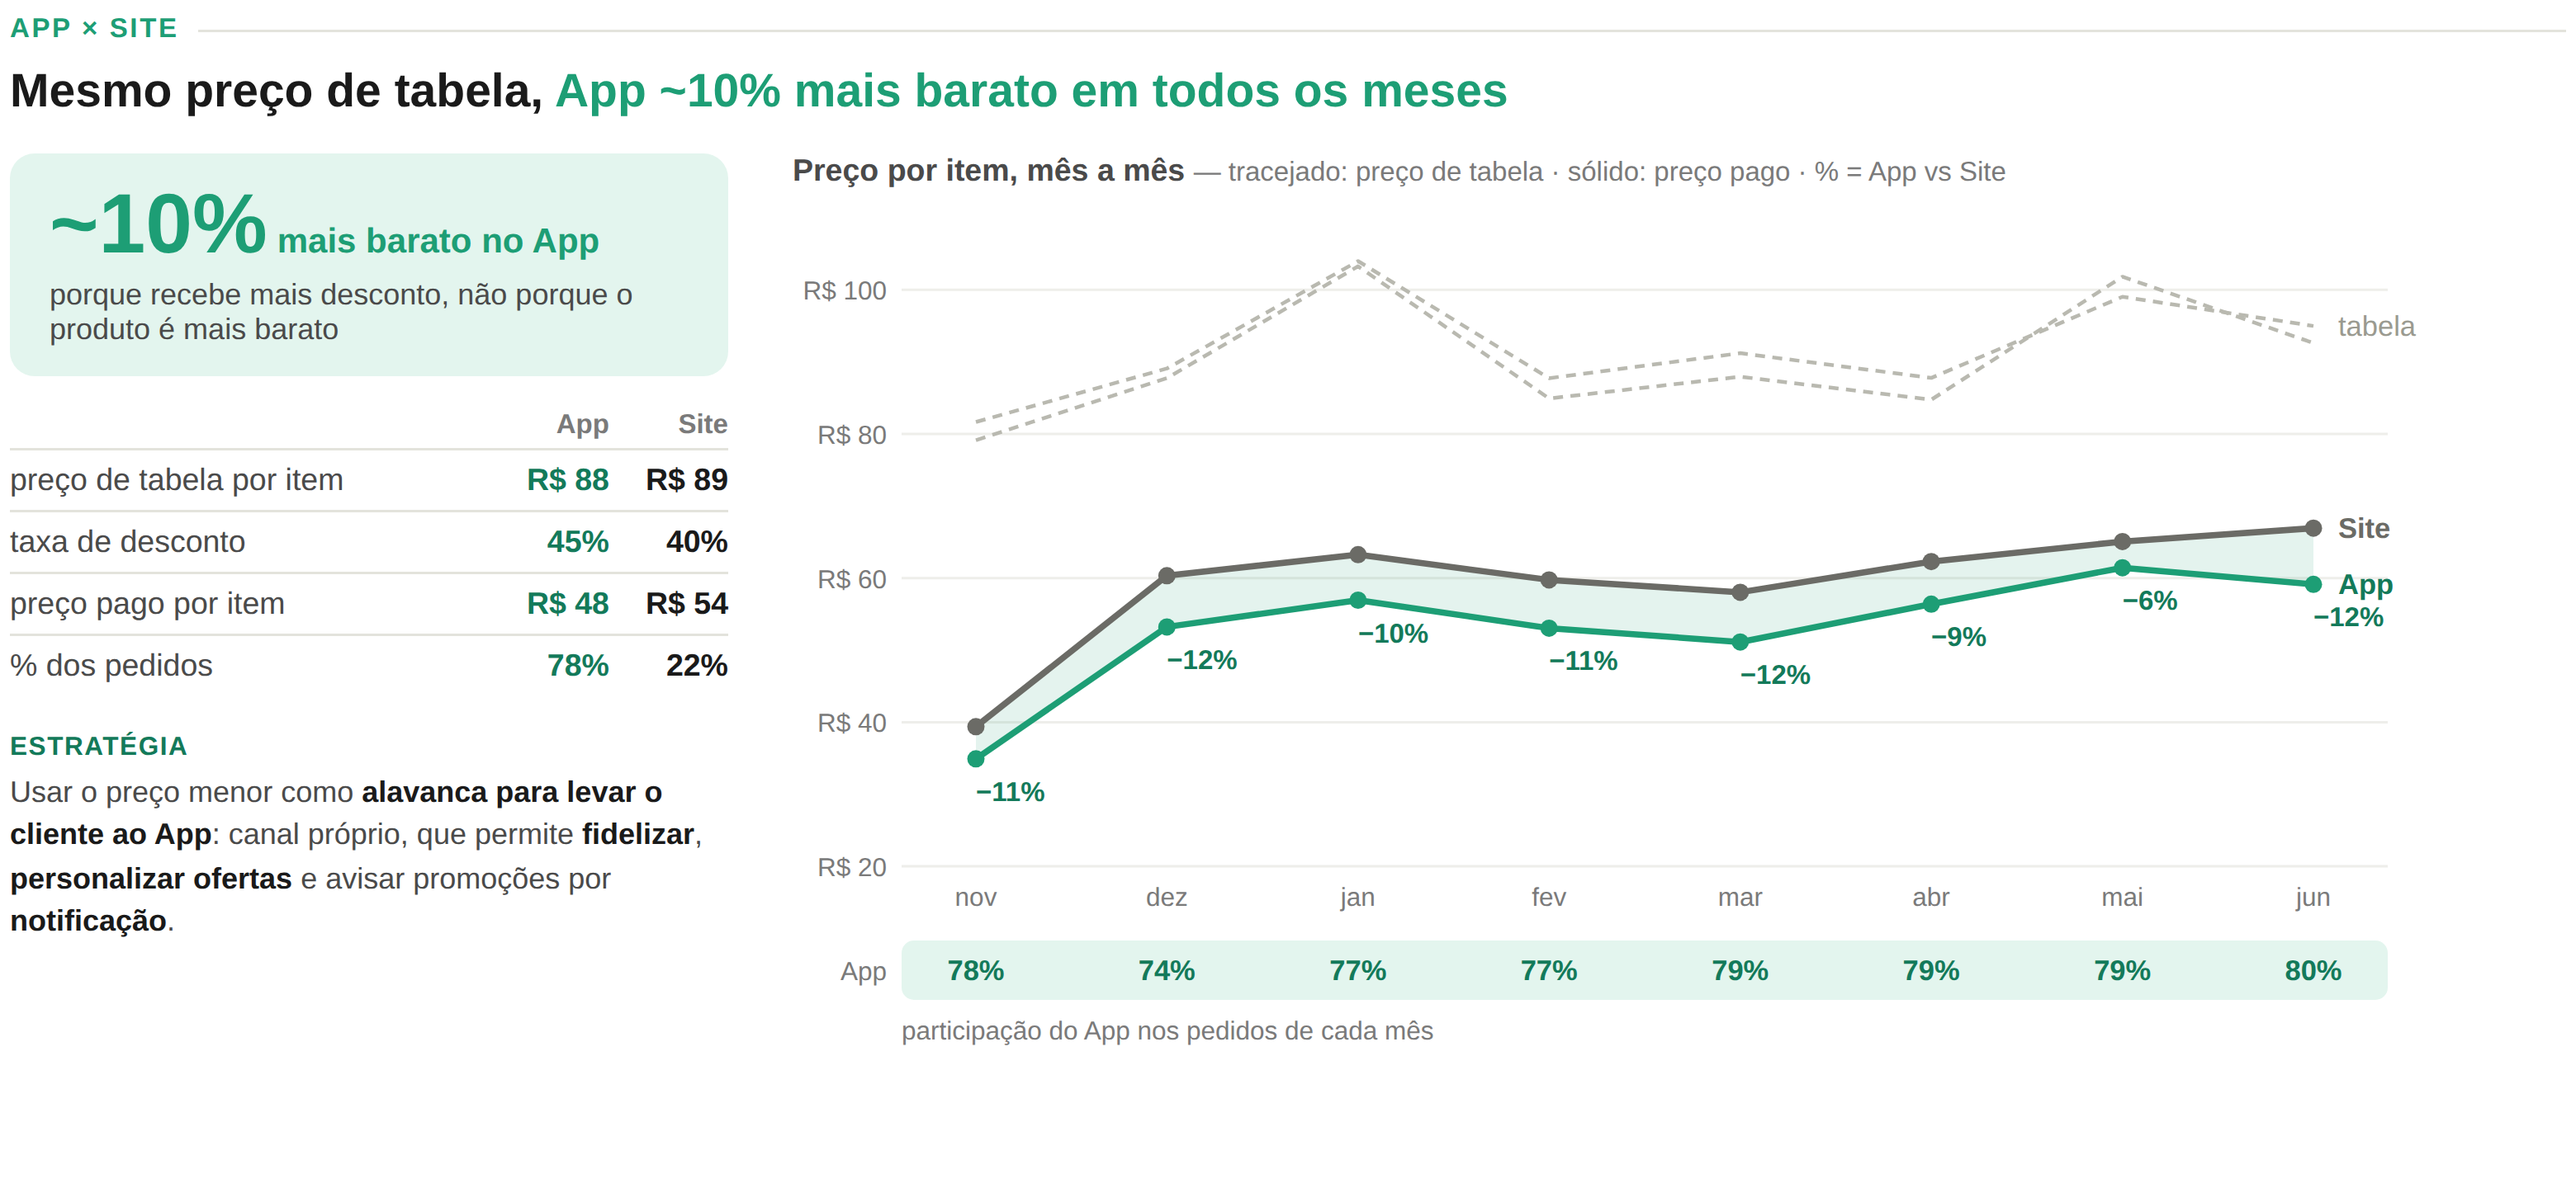
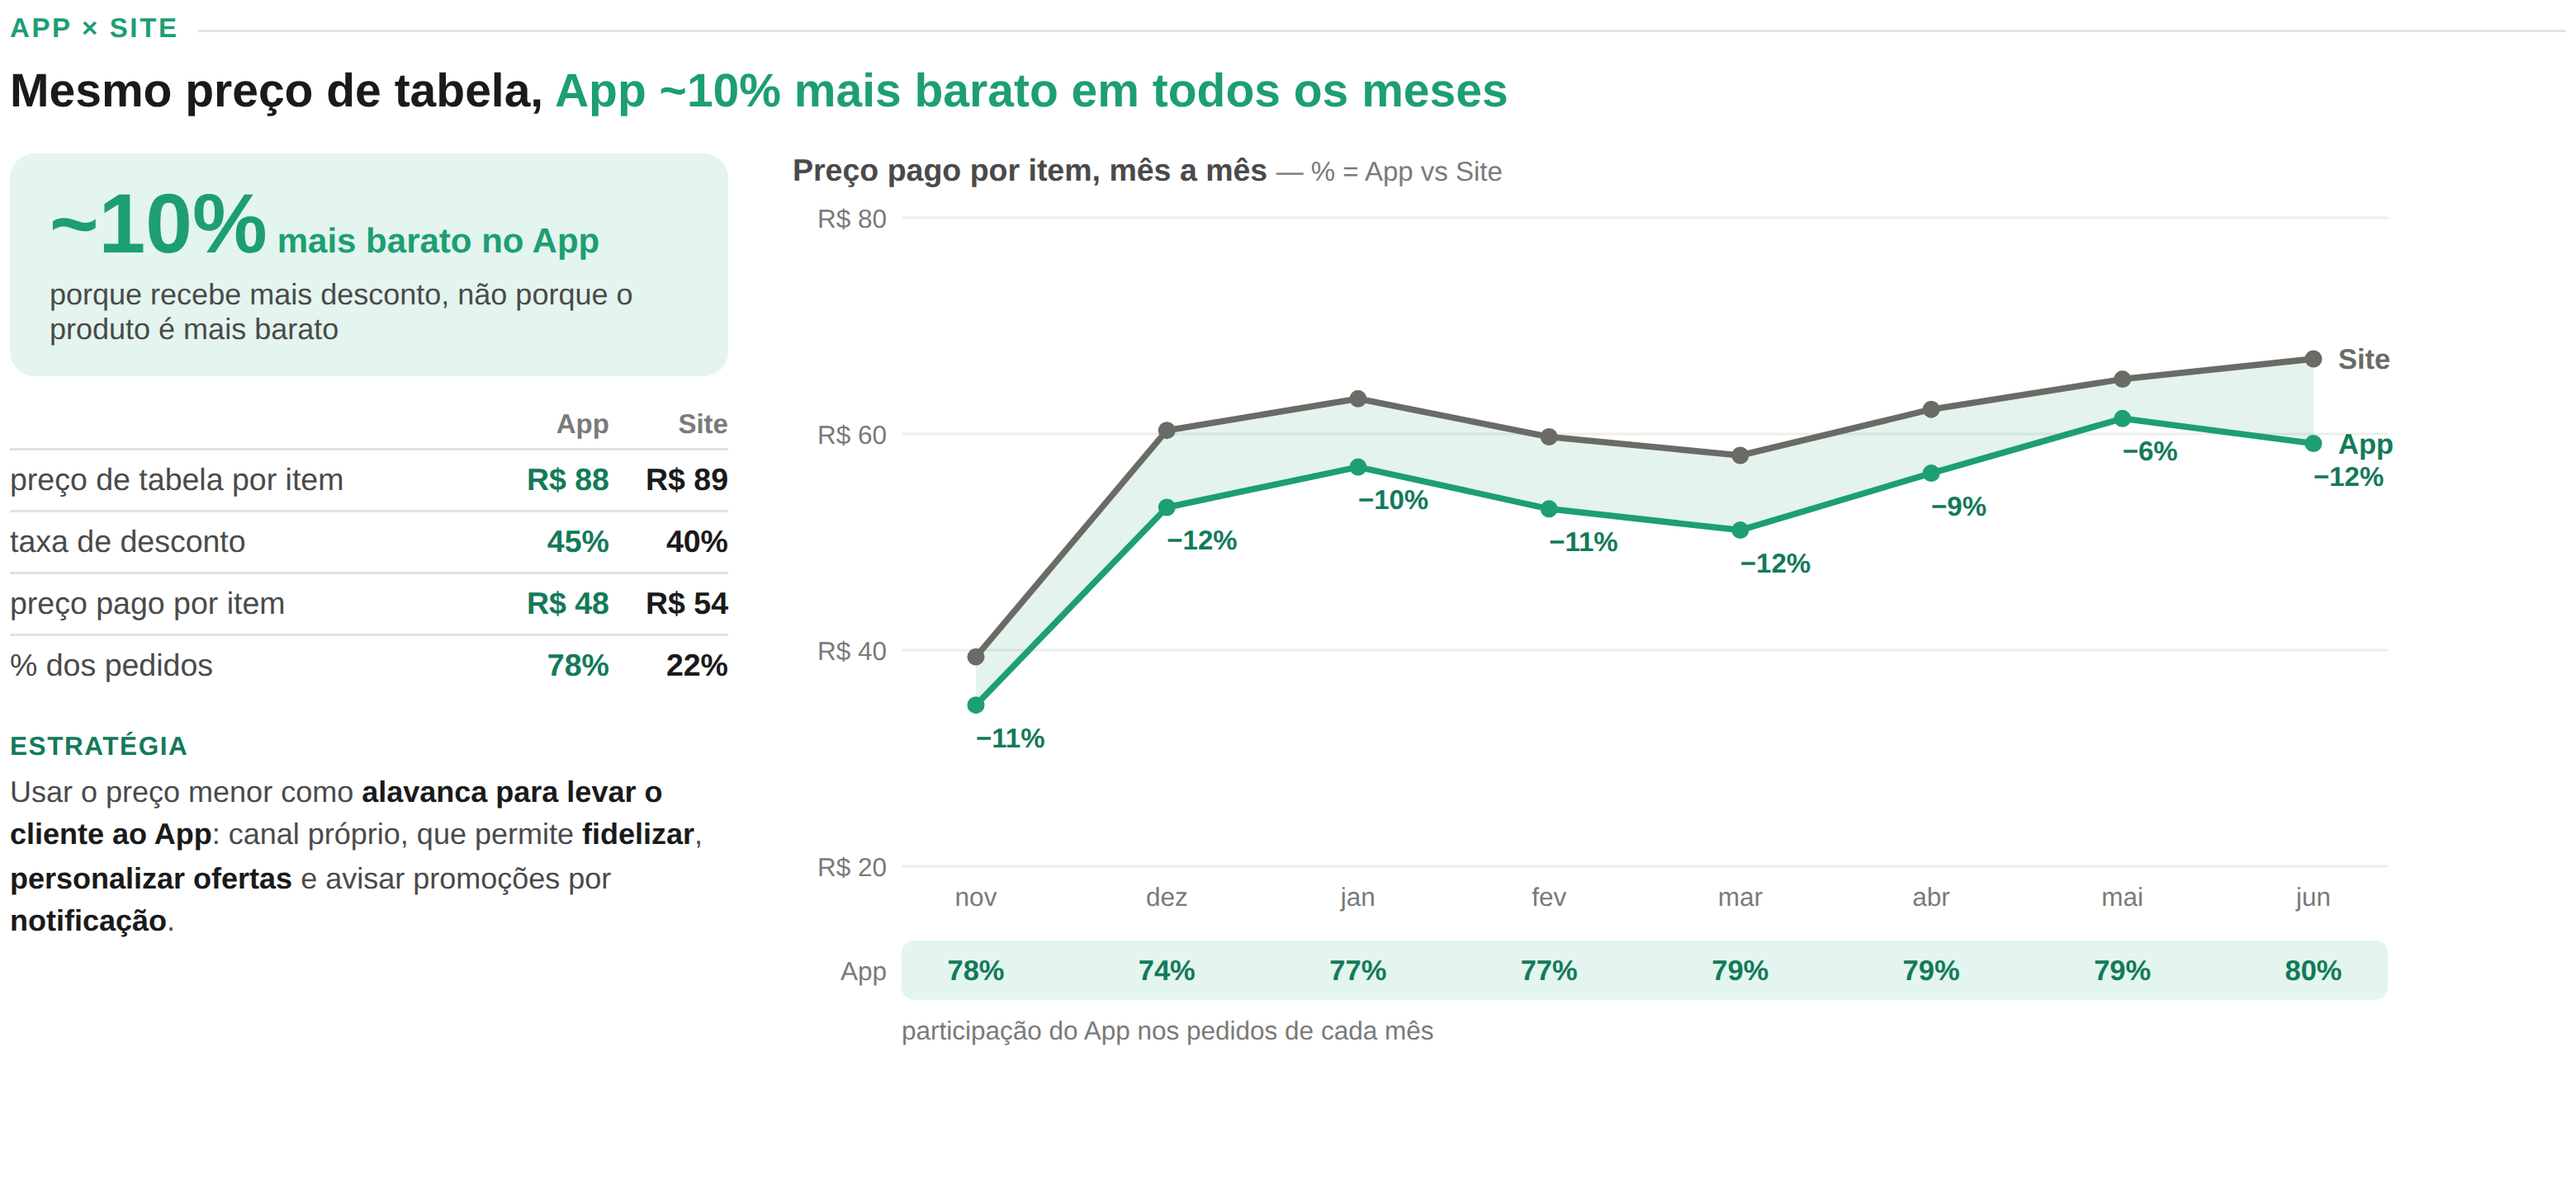
Widget App × Site: remove linhas de preço de tabela do gráfico
Claude-Session: https://claude.ai/code/session_01NUJZKTcM8cs9QBTcUeuacF

diff --git a/apresentacao/widgets/05_app_site.html b/apresentacao/widgets/05_app_site.html
@@ -69,8 +69,8 @@
       <div class="texto"><span class="tit">Estratégia</span>Usar o preço menor como <b>alavanca para levar o cliente ao App</b>: canal próprio, que permite <b>fidelizar</b>, <b>personalizar ofertas</b> e avisar promoções por <b>notificação</b>.</div>
     </div>
     <div>
-      <div class="graf-tit">Preço por item, mês a mês <span>— tracejado: preço de tabela · sólido: preço pago · % = App vs Site</span></div>
-      <svg width="694" height="348" viewBox="0 0 694 348"><line x1="44" x2="644" y1="272.0" y2="272.0" class="grade"/><text x="38" y="276.0" text-anchor="end" class="eixo">R$ 20</text><line x1="44" x2="644" y1="213.8" y2="213.8" class="grade"/><text x="38" y="217.8" text-anchor="end" class="eixo">R$ 40</text><line x1="44" x2="644" y1="155.6" y2="155.6" class="grade"/><text x="38" y="159.6" text-anchor="end" class="eixo">R$ 60</text><line x1="44" x2="644" y1="97.3" y2="97.3" class="grade"/><text x="38" y="101.3" text-anchor="end" class="eixo">R$ 80</text><line x1="44" x2="644" y1="39.1" y2="39.1" class="grade"/><text x="38" y="43.1" text-anchor="end" class="eixo">R$ 100</text><text x="74.0" y="288" text-anchor="middle" class="eixo">nov</text><text x="151.1" y="288" text-anchor="middle" class="eixo">dez</text><text x="228.3" y="288" text-anchor="middle" class="eixo">jan</text><text x="305.4" y="288" text-anchor="middle" class="eixo">fev</text><text x="382.6" y="288" text-anchor="middle" class="eixo">mar</text><text x="459.7" y="288" text-anchor="middle" class="eixo">abr</text><text x="536.9" y="288" text-anchor="middle" class="eixo">mai</text><text x="614.0" y="288" text-anchor="middle" class="eixo">jun</text><polygon points="74.0,215.6 151.1,154.6 228.3,146.1 305.4,156.3 382.6,161.3 459.7,148.9 536.9,140.8 614.0,135.4 614.0,158.1 536.9,151.4 459.7,166.1 382.6,181.4 305.4,175.8 228.3,164.5 151.1,175.3 74.0,228.6" class="gap"/><polyline points="74.0,92.5 151.1,70.9 228.3,27.5 305.4,74.8 382.6,64.7 459.7,74.7 536.9,41.9 614.0,53.7" class="tab site"/><polyline points="74.0,99.9 151.1,74.8 228.3,29.6 305.4,83.0 382.6,74.2 459.7,83.5 536.9,33.8 614.0,60.6" class="tab app"/><polyline points="74.0,215.6 151.1,154.6 228.3,146.1 305.4,156.3 382.6,161.3 459.7,148.9 536.9,140.8 614.0,135.4" class="pago site"/><polyline points="74.0,228.6 151.1,175.3 228.3,164.5 305.4,175.8 382.6,181.4 459.7,166.1 536.9,151.4 614.0,158.1" class="pago app"/><circle cx="74.0" cy="215.6" r="3.5" class="pt site"/><circle cx="74.0" cy="228.6" r="3.5" class="pt app"/><text x="74.0" y="245.6" text−anchor="middle" class="dif">−11%</text><circle cx="151.1" cy="154.6" r="3.5" class="pt site"/><circle cx="151.1" cy="175.3" r="3.5" class="pt app"/><text x="151.1" y="192.3" text−anchor="middle" class="dif">−12%</text><circle cx="228.3" cy="146.1" r="3.5" class="pt site"/><circle cx="228.3" cy="164.5" r="3.5" class="pt app"/><text x="228.3" y="181.5" text−anchor="middle" class="dif">−10%</text><circle cx="305.4" cy="156.3" r="3.5" class="pt site"/><circle cx="305.4" cy="175.8" r="3.5" class="pt app"/><text x="305.4" y="192.8" text−anchor="middle" class="dif">−11%</text><circle cx="382.6" cy="161.3" r="3.5" class="pt site"/><circle cx="382.6" cy="181.4" r="3.5" class="pt app"/><text x="382.6" y="198.4" text−anchor="middle" class="dif">−12%</text><circle cx="459.7" cy="148.9" r="3.5" class="pt site"/><circle cx="459.7" cy="166.1" r="3.5" class="pt app"/><text x="459.7" y="183.1" text−anchor="middle" class="dif">−9%</text><circle cx="536.9" cy="140.8" r="3.5" class="pt site"/><circle cx="536.9" cy="151.4" r="3.5" class="pt app"/><text x="536.9" y="168.4" text−anchor="middle" class="dif">−6%</text><circle cx="614.0" cy="135.4" r="3.5" class="pt site"/><circle cx="614.0" cy="158.1" r="3.5" class="pt app"/><text x="614.0" y="175.1" text−anchor="middle" class="dif">−12%</text><text x="624.0" y="57.7" class="leg tab-l">tabela</text><text x="624.0" y="139.4" class="leg site-l">Site</text><text x="624.0" y="162.1" class="leg app-l">App</text><rect x="44" y="302" width="600" height="24" rx="5" class="faixa"/><text x="38" y="318" text-anchor="end" class="eixo">App</text><text x="74.0" y="318" text-anchor="middle" class="sh">78%</text><text x="151.1" y="318" text-anchor="middle" class="sh">74%</text><text x="228.3" y="318" text-anchor="middle" class="sh">77%</text><text x="305.4" y="318" text-anchor="middle" class="sh">77%</text><text x="382.6" y="318" text-anchor="middle" class="sh">79%</text><text x="459.7" y="318" text-anchor="middle" class="sh">79%</text><text x="536.9" y="318" text-anchor="middle" class="sh">79%</text><text x="614.0" y="318" text-anchor="middle" class="sh">80%</text><text x="44" y="342" class="eixo">participação do App nos pedidos de cada mês</text></svg>
+      <div class="graf-tit">Preço pago por item, mês a mês <span>— % = App vs Site</span></div>
+      <svg width="694" height="348" viewBox="0 0 694 348"><line x1="44" x2="644" y1="272.0" y2="272.0" class="grade"/><text x="38" y="276.0" text-anchor="end" class="eixo">R$ 20</text><line x1="44" x2="644" y1="184.7" y2="184.7" class="grade"/><text x="38" y="188.7" text-anchor="end" class="eixo">R$ 40</text><line x1="44" x2="644" y1="97.3" y2="97.3" class="grade"/><text x="38" y="101.3" text-anchor="end" class="eixo">R$ 60</text><line x1="44" x2="644" y1="10.0" y2="10.0" class="grade"/><text x="38" y="14.0" text-anchor="end" class="eixo">R$ 80</text><text x="74.0" y="288" text-anchor="middle" class="eixo">nov</text><text x="151.1" y="288" text-anchor="middle" class="eixo">dez</text><text x="228.3" y="288" text-anchor="middle" class="eixo">jan</text><text x="305.4" y="288" text-anchor="middle" class="eixo">fev</text><text x="382.6" y="288" text-anchor="middle" class="eixo">mar</text><text x="459.7" y="288" text-anchor="middle" class="eixo">abr</text><text x="536.9" y="288" text-anchor="middle" class="eixo">mai</text><text x="614.0" y="288" text-anchor="middle" class="eixo">jun</text><polygon points="74.0,187.4 151.1,95.9 228.3,83.1 305.4,98.5 382.6,106.0 459.7,87.4 536.9,75.2 614.0,67.0 614.0,101.2 536.9,91.1 459.7,113.2 382.6,136.2 305.4,127.6 228.3,110.7 151.1,127.0 74.0,206.9" class="gap"/><polyline points="74.0,187.4 151.1,95.9 228.3,83.1 305.4,98.5 382.6,106.0 459.7,87.4 536.9,75.2 614.0,67.0" class="pago site"/><polyline points="74.0,206.9 151.1,127.0 228.3,110.7 305.4,127.6 382.6,136.2 459.7,113.2 536.9,91.1 614.0,101.2" class="pago app"/><circle cx="74.0" cy="187.4" r="3.5" class="pt site"/><circle cx="74.0" cy="206.9" r="3.5" class="pt app"/><text x="74.0" y="223.9" text−anchor="middle" class="dif">−11%</text><circle cx="151.1" cy="95.9" r="3.5" class="pt site"/><circle cx="151.1" cy="127.0" r="3.5" class="pt app"/><text x="151.1" y="144.0" text−anchor="middle" class="dif">−12%</text><circle cx="228.3" cy="83.1" r="3.5" class="pt site"/><circle cx="228.3" cy="110.7" r="3.5" class="pt app"/><text x="228.3" y="127.7" text−anchor="middle" class="dif">−10%</text><circle cx="305.4" cy="98.5" r="3.5" class="pt site"/><circle cx="305.4" cy="127.6" r="3.5" class="pt app"/><text x="305.4" y="144.6" text−anchor="middle" class="dif">−11%</text><circle cx="382.6" cy="106.0" r="3.5" class="pt site"/><circle cx="382.6" cy="136.2" r="3.5" class="pt app"/><text x="382.6" y="153.2" text−anchor="middle" class="dif">−12%</text><circle cx="459.7" cy="87.4" r="3.5" class="pt site"/><circle cx="459.7" cy="113.2" r="3.5" class="pt app"/><text x="459.7" y="130.2" text−anchor="middle" class="dif">−9%</text><circle cx="536.9" cy="75.2" r="3.5" class="pt site"/><circle cx="536.9" cy="91.1" r="3.5" class="pt app"/><text x="536.9" y="108.1" text−anchor="middle" class="dif">−6%</text><circle cx="614.0" cy="67.0" r="3.5" class="pt site"/><circle cx="614.0" cy="101.2" r="3.5" class="pt app"/><text x="614.0" y="118.2" text−anchor="middle" class="dif">−12%</text><text x="624.0" y="71.0" class="leg site-l">Site</text><text x="624.0" y="105.2" class="leg app-l">App</text><rect x="44" y="302" width="600" height="24" rx="5" class="faixa"/><text x="38" y="318" text-anchor="end" class="eixo">App</text><text x="74.0" y="318" text-anchor="middle" class="sh">78%</text><text x="151.1" y="318" text-anchor="middle" class="sh">74%</text><text x="228.3" y="318" text-anchor="middle" class="sh">77%</text><text x="305.4" y="318" text-anchor="middle" class="sh">77%</text><text x="382.6" y="318" text-anchor="middle" class="sh">79%</text><text x="459.7" y="318" text-anchor="middle" class="sh">79%</text><text x="536.9" y="318" text-anchor="middle" class="sh">79%</text><text x="614.0" y="318" text-anchor="middle" class="sh">80%</text><text x="44" y="342" class="eixo">participação do App nos pedidos de cada mês</text></svg>
     </div>
   </div>
 </div>

diff --git a/apresentacao/geradores/05_app_site_modelo.html b/apresentacao/geradores/05_app_site_modelo.html
@@ -69,7 +69,7 @@
       <div class="texto"><span class="tit">Estratégia</span>Usar o preço menor como <b>alavanca para levar o cliente ao App</b>: canal próprio, que permite <b>fidelizar</b>, <b>personalizar ofertas</b> e avisar promoções por <b>notificação</b>.</div>
     </div>
     <div>
-      <div class="graf-tit">Preço por item, mês a mês <span>— tracejado: preço de tabela · sólido: preço pago · % = App vs Site</span></div>
+      <div class="graf-tit">Preço pago por item, mês a mês <span>— % = App vs Site</span></div>
       {{GRAFICO}}
     </div>
   </div>

diff --git a/apresentacao/geradores/05_app_site.py b/apresentacao/geradores/05_app_site.py
@@ -1,7 +1,7 @@
 """Gera o widget 05_app_site.html: preço de tabela × preço pago por item, App e Site, mês a mês.
 
 Dados em canal_mensal.csv (consulta no BigQuery por mês × canal): ped, qt, rec (receita líquida) e des (desconto).
-Preço de tabela por item = (receita + desconto) / itens; preço pago por item = receita / itens.
+Preço pago por item = receita / itens (preço de tabela = (receita + desconto) / itens, só na tabela lateral).
 """
 import sys
 from pathlib import Path
@@ -24,11 +24,11 @@ tx = tot["des"] / (tot["rec"] + tot["des"])
 sh_app = tot.loc["App", "ped"] / tot["ped"].sum()
 
 L, T, W, H = 44, 10, 600, 262
-y0, y1 = 20, 110
+y0, y1 = 20, 80
 px = lambda i: L + 30 + i * (W - 60) / (len(meses) - 1)
 py = lambda v: T + (y1 - v) / (y1 - y0) * H
 partes = []
-for v in range(20, 111, 20):
+for v in range(20, 81, 20):
     partes.append(f'<line x1="{L}" x2="{L + W}" y1="{py(v):.1f}" y2="{py(v):.1f}" class="grade"/>'
                   f'<text x="{L - 6}" y="{py(v) + 4:.1f}" text-anchor="end" class="eixo">R$ {v}</text>')
 for i, mes in enumerate(meses):
@@ -44,8 +44,7 @@ def linha(serie, classe):
 topo = " ".join(f"{px(i):.1f},{py(v):.1f}" for i, v in enumerate(w["pago"]["Site"]))
 base = " ".join(f"{px(i):.1f},{py(v):.1f}" for i, v in reversed(list(enumerate(w["pago"]["App"]))))
 partes.append(f'<polygon points="{topo} {base}" class="gap"/>')
-partes += [linha(w["tabela"]["Site"], "tab site"), linha(w["tabela"]["App"], "tab app"),
-           linha(w["pago"]["Site"], "pago site"), linha(w["pago"]["App"], "pago app")]
+partes += [linha(w["pago"]["Site"], "pago site"), linha(w["pago"]["App"], "pago app")]
 for i, mes in enumerate(meses):
     a, s = w["pago"]["App"][mes], w["pago"]["Site"][mes]
     partes.append(f'<circle cx="{px(i):.1f}" cy="{py(s):.1f}" r="3.5" class="pt site"/>'
@@ -53,8 +52,7 @@ for i, mes in enumerate(meses):
                   f'<text x="{px(i):.1f}" y="{py(a) + 17:.1f}" text-anchor="middle" class="dif">'
                   f'{100 * (a / s - 1):.0f}%</text>'.replace("-", "−"))
 ult = len(meses) - 1
-partes.append(f'<text x="{px(ult) + 10:.1f}" y="{py(w["tabela"]["Site"][meses[-1]]) + 4:.1f}" class="leg tab-l">tabela</text>'
-              f'<text x="{px(ult) + 10:.1f}" y="{py(w["pago"]["Site"][meses[-1]]) + 4:.1f}" class="leg site-l">Site</text>'
+partes.append(f'<text x="{px(ult) + 10:.1f}" y="{py(w["pago"]["Site"][meses[-1]]) + 4:.1f}" class="leg site-l">Site</text>'
               f'<text x="{px(ult) + 10:.1f}" y="{py(w["pago"]["App"][meses[-1]]) + 4:.1f}" class="leg app-l">App</text>')
 yb = T + H + 30
 partes.append(f'<rect x="{L}" y="{yb}" width="{W}" height="24" rx="5" class="faixa"/>'
